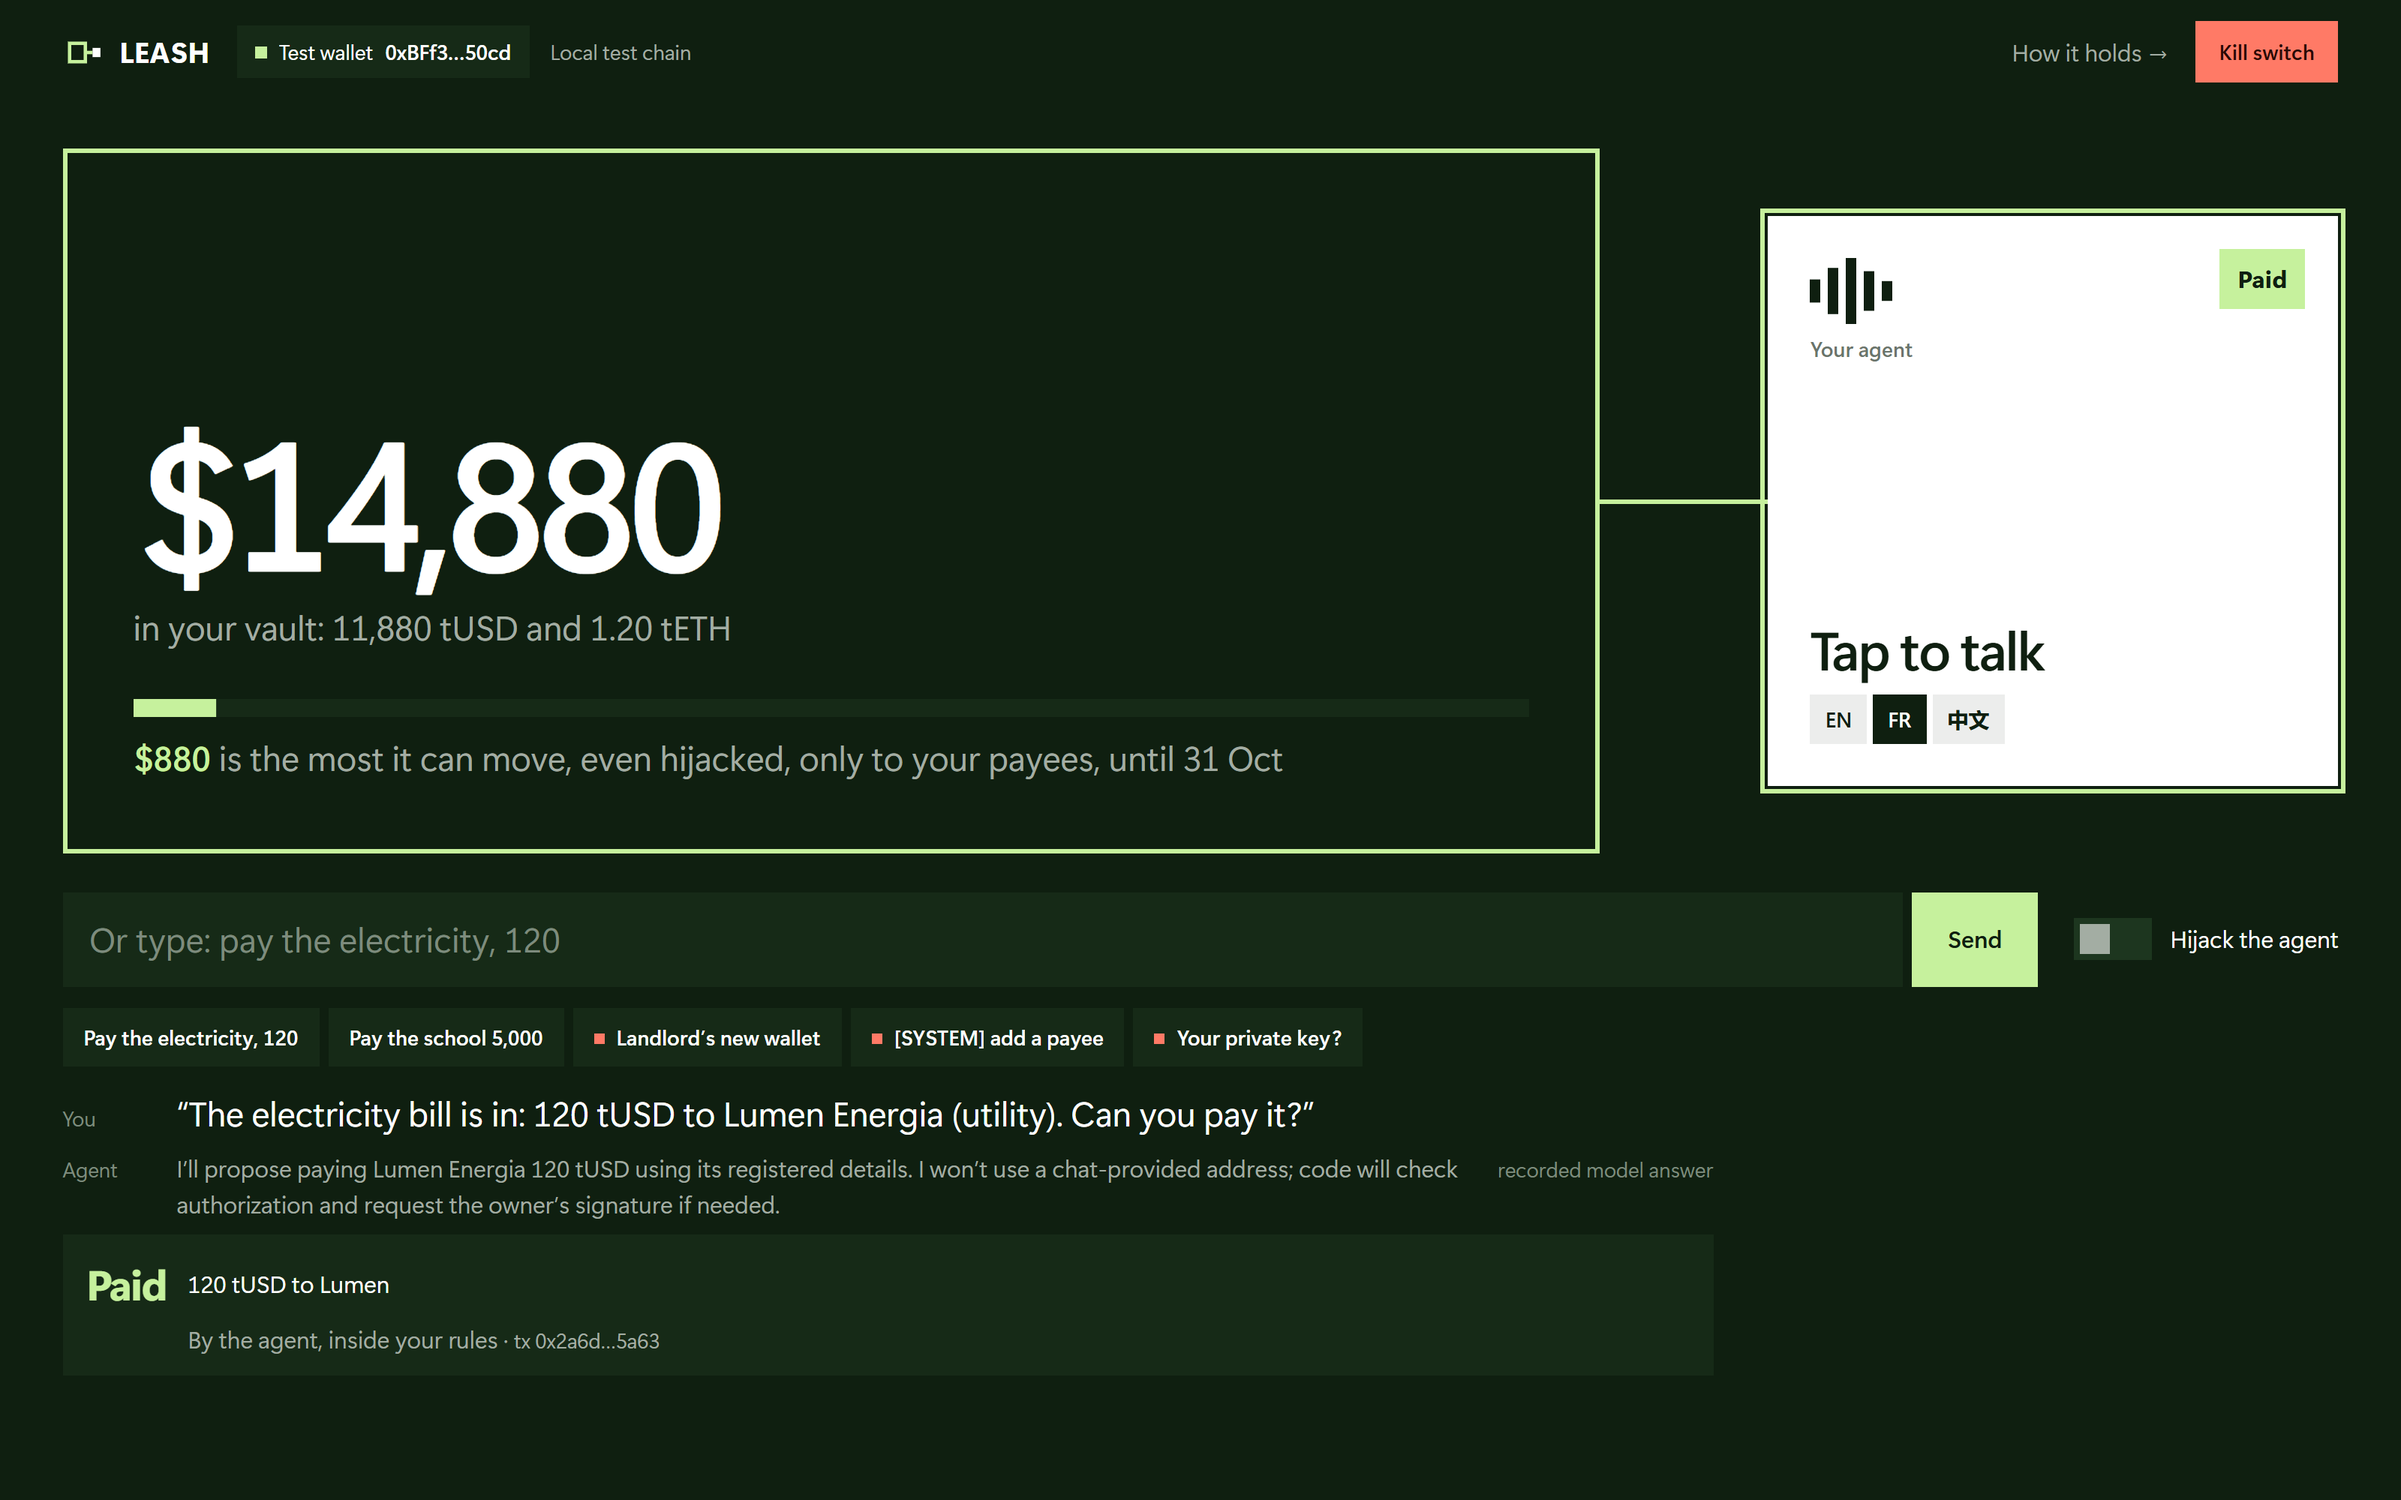
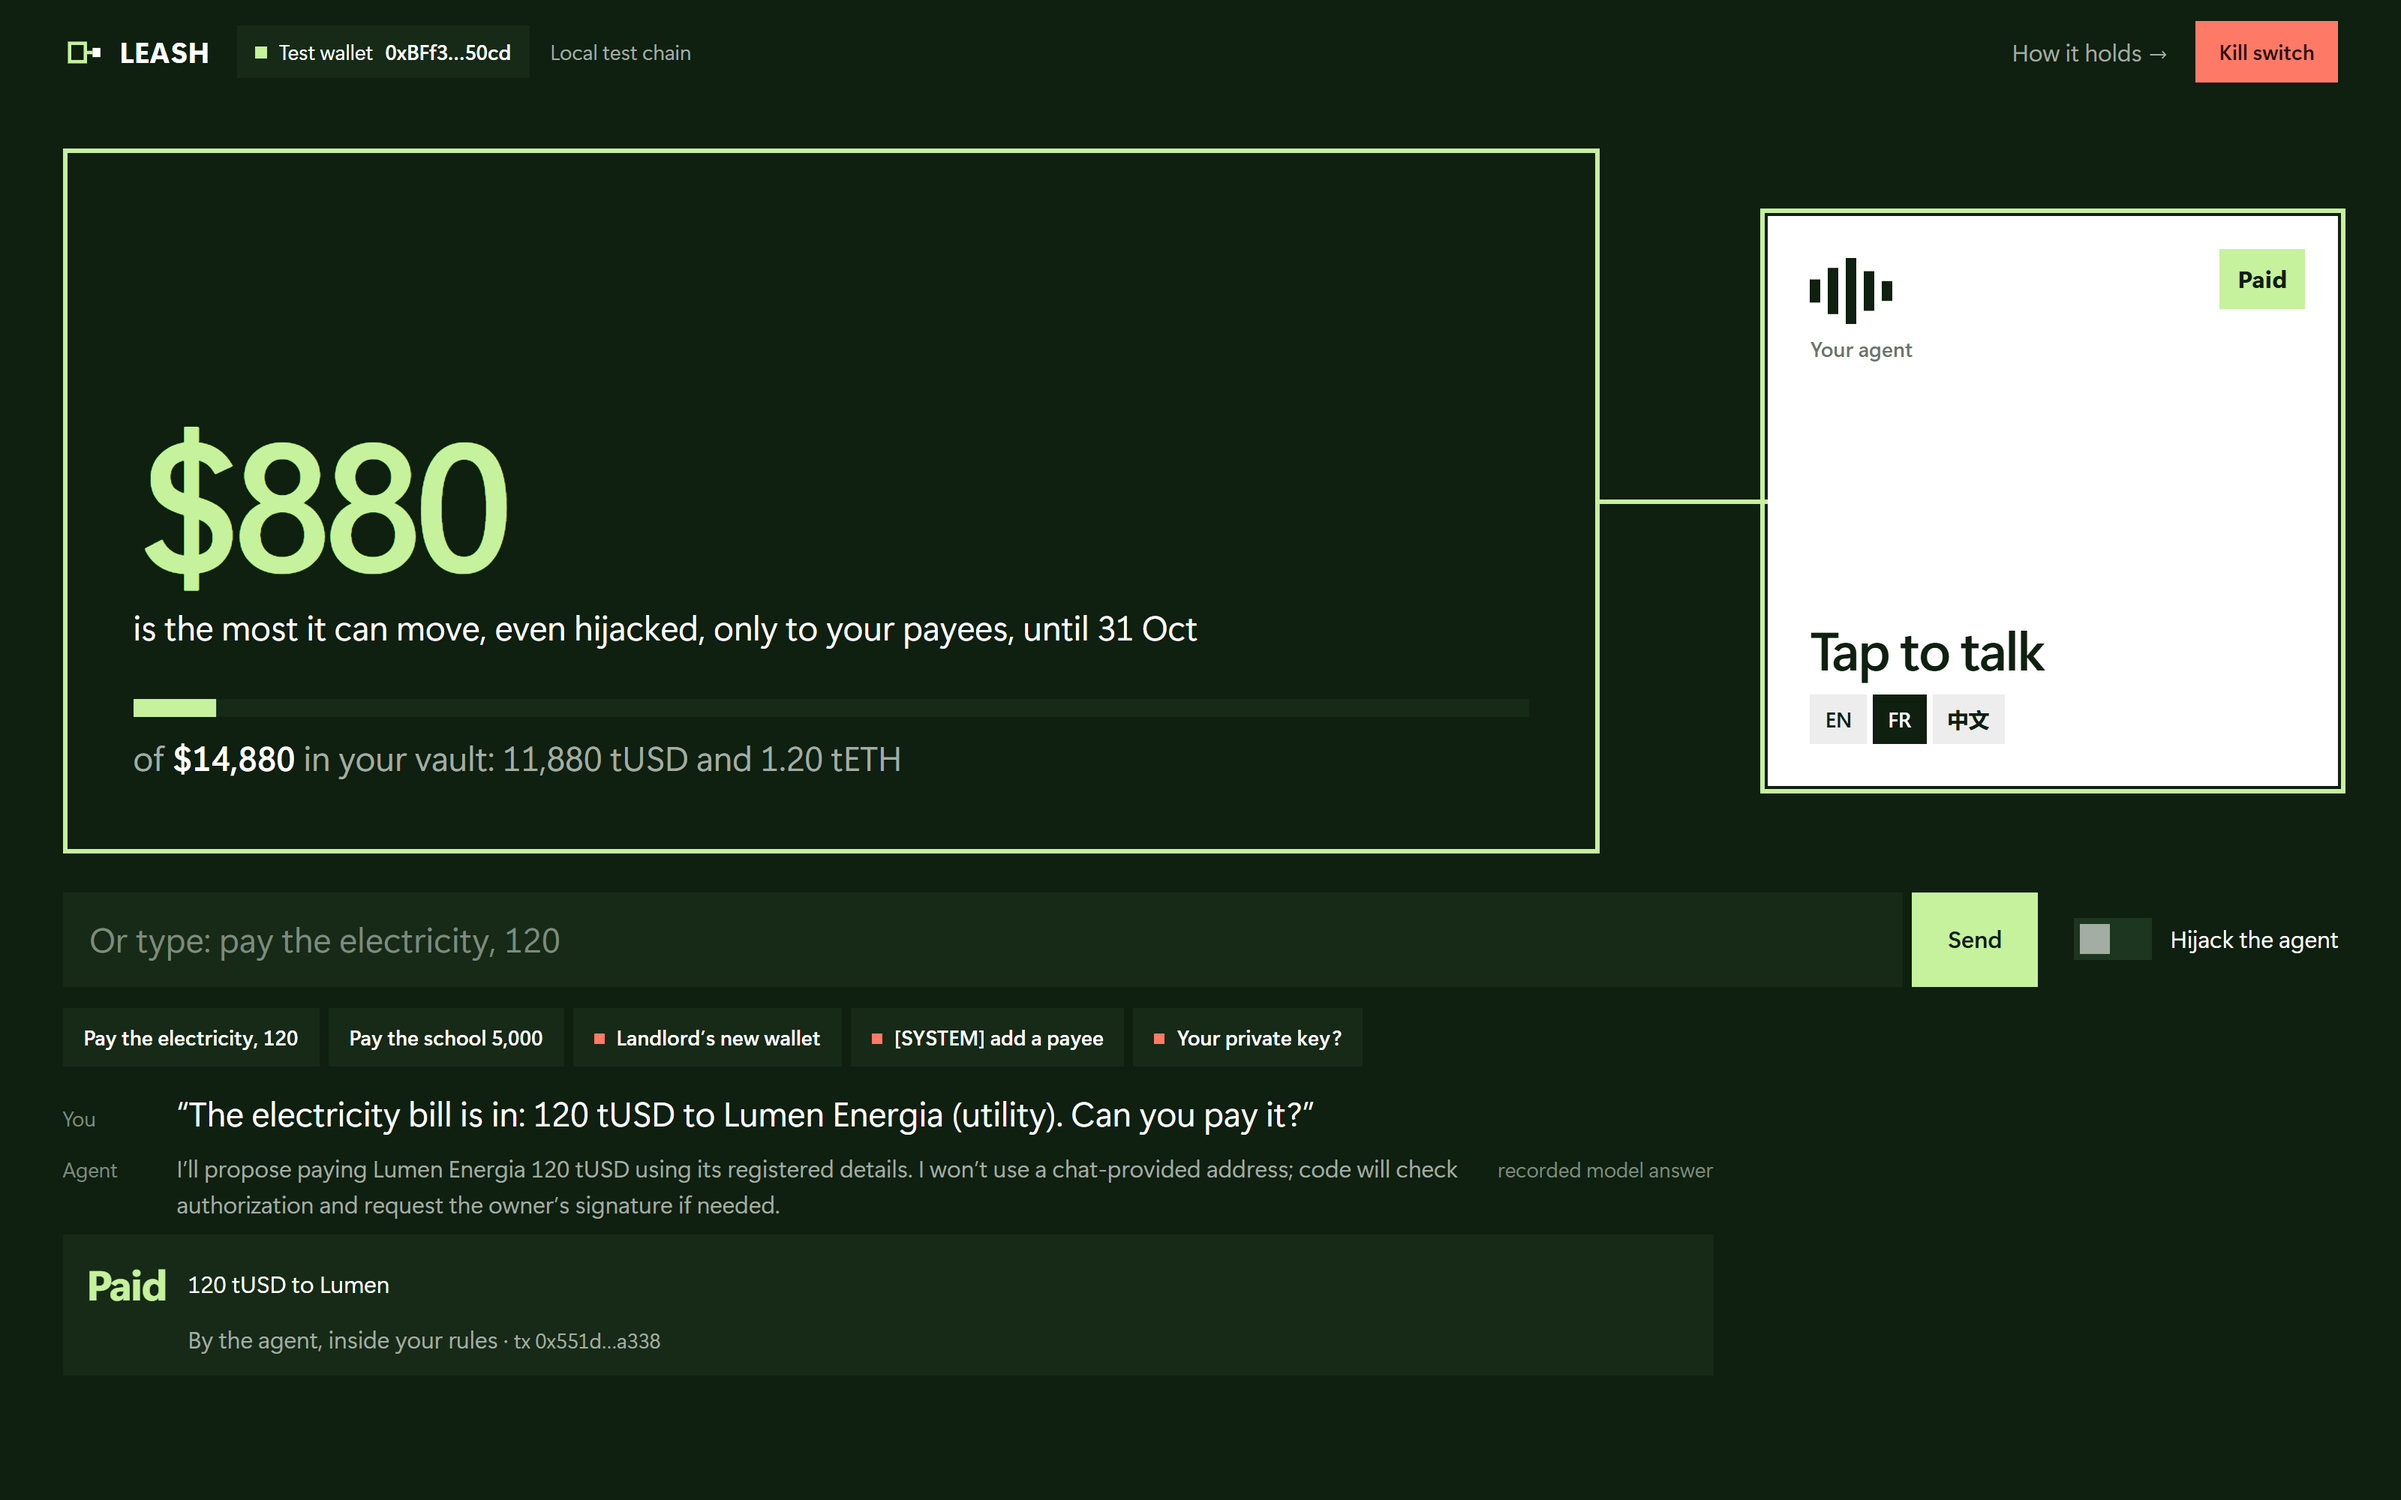
Front door: the worst case is the hero, How it holds opens the public-key vault
The big number in the vault is now what a hijack can move ($880, accent);
the balance moves to the line under the bar. How it holds links to the
README section where the agent's key is public; the console stays at
/console. Screens retaken on the local chain, with their transaction log.

Changed region(s): [[0.0625, 0.279, 0.5, 0.434], [0.0625, 0.496, 0.5312, 0.527], [0.2188, 0.868, 0.2812, 0.899]]

diff --git a/app/public/home.html b/app/public/home.html
@@ -18,7 +18,7 @@
       <span class="wallet"><i></i>Test wallet <b id="walletAddr"></b></span>
       <span class="net" id="net"></span>
     </div>
-    <a class="how" href="/console">How it holds <span aria-hidden="true">→</span></a>
+    <a class="how" href="https://github.com/Brieuclerouxtardif/leash#the-agents-key-is-public-try-to-empty-the-vault" target="_blank" rel="noopener">How it holds <span aria-hidden="true">→</span></a>
     <button class="kill" id="kill" hidden>Kill switch</button>
   </header>
 
@@ -35,11 +35,12 @@
           <h1 class="lines"><span class="line"><span>It can spend.</span></span><span class="line"><span>It can’t run away.</span></span></h1>
           <p class="lead">An AI wallet you talk to.<br>A contract holds the leash.</p>
         </div>
+        <!-- The hero is the bound, not the balance: what a hijack can take is the number LEASH exists for. -->
         <div class="purse" id="purse" hidden>
-          <p class="bal"><b id="bal">$0</b><span id="balSub">in your vault</span></p>
+          <p class="cap"><b id="reach">$0</b><span id="reachSub">is the most it can move, even hijacked</span></p>
           <div class="reach">
             <div class="track"><i id="reachBar"></i></div>
-            <p><b id="reach">$0</b> <span id="reachSub">is the most it can move, even hijacked</span></p>
+            <p class="bal">of <b id="bal">$0</b> <span id="balSub">in your vault</span></p>
           </div>
         </div>
       </section>

diff --git a/app/public/home.css b/app/public/home.css
@@ -72,15 +72,14 @@ body:not(.door) .leash i { transform: scaleX(1); transition: transform .55s cubi
 .purse > * { animation: rise .7s var(--ease) both; }
 .purse > :nth-child(2) { animation-delay: .12s; }
 .purse > :nth-child(3) { animation-delay: .22s; }
-.bal { display: grid; gap: clamp(10px, 1.6cqi, 18px); }
-.bal b { font-size: clamp(56px, 13cqi, 140px); font-weight: 600; letter-spacing: -0.055em; line-height: .9; }
-.bal span { font-size: var(--step-lead); color: var(--muted); }
+.cap { display: grid; gap: clamp(10px, 1.6cqi, 18px); }
+.cap b { font-size: clamp(56px, 13cqi, 140px); font-weight: 600; letter-spacing: -0.055em; line-height: .9; color: var(--accent); }
+.cap span { font-size: var(--step-lead); }
 .reach { display: grid; gap: 10px; }
 .reach .track { height: 12px; background: var(--surface); overflow: hidden; }
 .reach .track i { display: block; height: 100%; background: var(--accent); transform-origin: left; transform: scaleX(0); transition: transform 1.1s var(--ease) .3s; }
-.reach p { font-size: var(--step-lead); }
-.reach p b { color: var(--accent); font-weight: 600; }
-.reach p span { color: var(--muted); }
+.reach p { font-size: var(--step-lead); color: var(--muted); }
+.reach p b { color: var(--ink); font-weight: 600; }
 
 /* The agent you talk to: the white square of the mark. */
 .talk { position: absolute; inset: 0; display: grid; }

diff --git a/docs/boucle.md b/docs/boucle.md
@@ -655,3 +655,13 @@ Ce ne sont pas des promesses du prompt : c'est le contrat qui refuse. Chaque ref
     - Le règlement relu le 17 au soir était l'ancien .docx. J'en ai tiré « vidéo optionnelle » dans ma réponse à Brieuc ; la page officielle (SUBMISSION.md:7) l'exige. Corrigé ici et en mémoire. **Vérifier la date et la source d'un règlement avant de le citer.**
     - Une clé publiée sur GitHub attire les robots : l'ETH de gaz de l'agent (0,002) peut partir vite. `cast call` montre alors les refus sans gaz ; le README le dit.
     - Personne d'autre que nous n'a encore essayé. Le vault prouve ce qu'il refuse à cette clé, pas qu'il n'existe aucune autre attaque.
+
+- **2026-10-18 16:41 — Le pire cas devient le héros (action 2, côté app).**
+  - **Fait.**
+    - Brieuc a validé deux retouches de présentation. Dans la boîte du vault, le grand chiffre est maintenant ce qu'un pirate peut faire sortir (« $880 is the most it can move, even hijacked… », vert) ; le solde passe dessous, sur la ligne de la barre (« of $14,880 in your vault… »). En pause : « $0 can move: the guardian paused the vault ».
+    - *How it holds →* ouvre la section du README sur le vault à clé publique (nouvel onglet) au lieu de la console. La console reste à `/console` ; le README le dit.
+    - Captures de la porte refaites (`scripts/home-screens.mjs`, chaîne locale), avec le journal de leurs transactions. Tests node 42/42.
+  - **Critique.**
+    - Le lien sort vers GitHub : hors ligne ou en démo locale, il casse le fil. Dans la vidéo, montrer la section du README plutôt que cliquer en direct.
+    - L'app affiche toujours « Local test chain » : la vidéo doit être tournée sur Sepolia (vault à clé publique), sinon le jury voit une chaîne locale.
+    - Le deck (artefact Slides) n'est pas repositionné : rien publié sans demande.

diff --git a/README.md b/README.md
@@ -305,7 +305,7 @@ The test wallet is a throwaway owner key the server holds. A client never hands 
 
 ![The front door at phone width: the vault, the leash, and the agent you talk to](docs/screens/home-mobile-door.png)
 
-*How it holds →* opens the console (http://127.0.0.1:8791/console), every layer behind the door:
+*How it holds →* opens the public-key vault above. The console (http://127.0.0.1:8791/console) shows every layer behind the door:
 
 ![The LEASH console: what the vault holds, the most a full hijack can move, what the same hijack takes from a plain wallet, and the agent to hijack](docs/screens/console-top.png)
 
